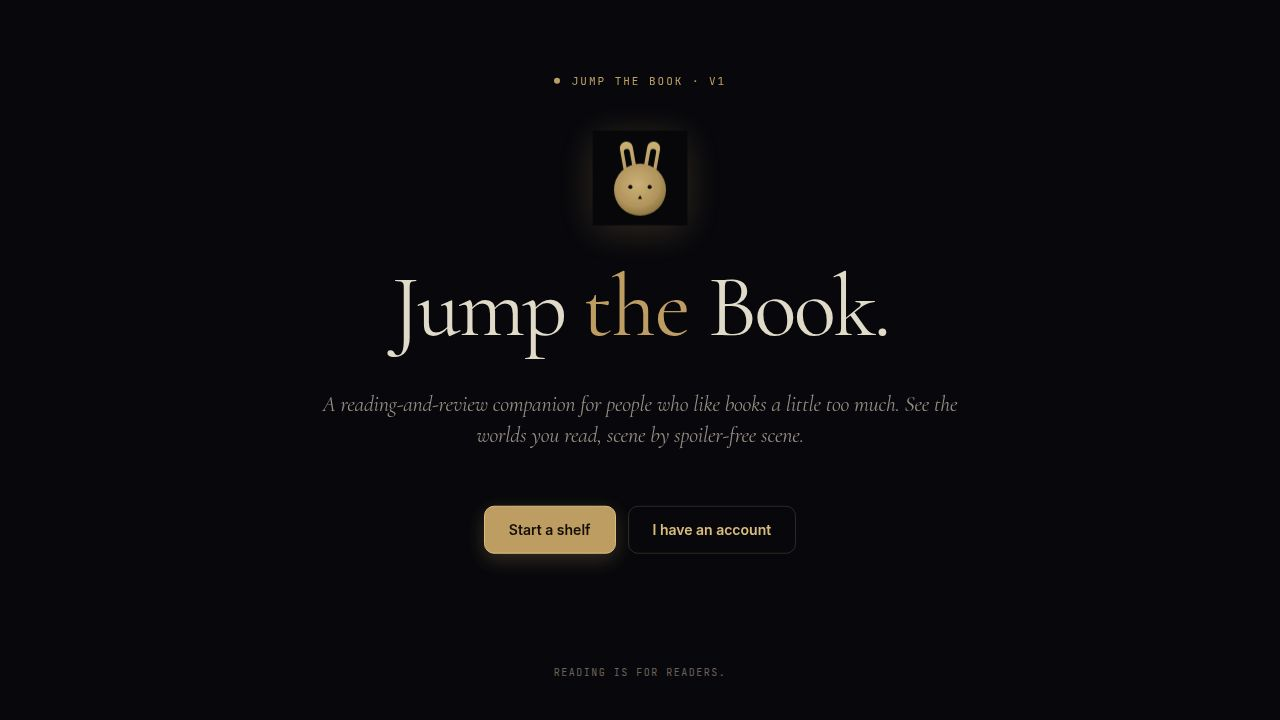
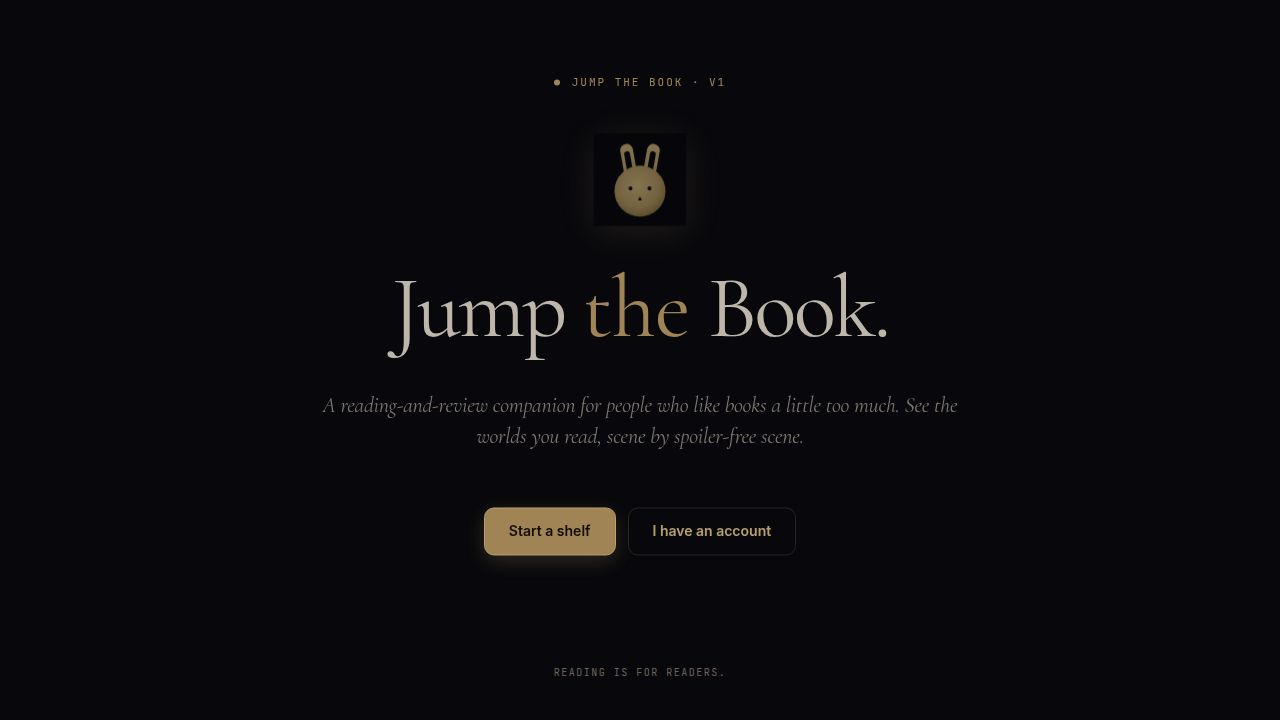
Add drag-and-drop reordering for books inside a series card
Original task (#16): Within a series group on the library page, let
readers reorder books by dragging when the API's auto-detected
seriesOrder is wrong (omnibus editions, prequels, novellas, etc.). New
order persists via the existing PATCH /me/books/:id endpoint and the
"#N" tile badges + group sort update immediately.

What changed:
- New `series-book-grid.tsx` component that renders a series group's
  tiles with HTML5 drag-and-drop. Each tile gets a small grip handle
  (the only draggable element) so taps on the cover still navigate
  normally; the surrounding wrapper handles drop targeting and shows a
  ring highlight on the drop target.
- On drop, the new order is renumbered 1..N and the cache for
  `["me","books"]` is optimistically rewritten so badges + group
  ordering update before the network round-trip. Only changed rows are
  PATCHed (parallel via Promise.all). On any failure we toast and
  re-fetch to revert to the server's truth.
- Wired into `pages/library.tsx`, replacing the inline tile grid inside
  each series group. `getSceneCount`, `bibleBookIds`, `isSignedIn` and
  the existing aria headingId/panelId are passed through unchanged.
- Reordering is gated on `isSignedIn && books.length >= 2` and every
  tile having a `remoteId` (signed-out users have no PATCH endpoint to
  hit).

Notes / deviations:
- HTML5 DnD does not work on touch devices. A follow-up task (#21) was
  filed to wire up @user for mobile/tablet support.
[…]

diff --git a/artifacts/jump-the-book-web/src/components/series-book-grid.tsx b/artifacts/jump-the-book-web/src/components/series-book-grid.tsx
@@ -1,0 +1,191 @@
+import { useState } from "react";
+import { useQueryClient } from "@tanstack/react-query";
+import { GripVertical } from "lucide-react";
+import { cn } from "@/lib/utils";
+import LibraryBookTile, {
+  type LibraryBookTileBook,
+} from "@/components/library-book-tile";
+import { apiFetch } from "@/lib/queryClient";
+import type { RemoteBook } from "@/hooks/useApiLibrary";
+import { useToast } from "@/hooks/use-toast";
+
+export interface SeriesBookEntry extends LibraryBookTileBook {
+  remoteId?: string;
+}
+
+interface Props {
+  books: SeriesBookEntry[];
+  bibleBookIds: Set<string>;
+  isSignedIn: boolean;
+  panelId: string;
+  headingId: string;
+}
+
+// Renders the books inside a single series card with HTML5 drag-and-drop
+// reordering. Each tile gets a small grip handle (the only draggable element)
+// so taps and clicks on the cover still navigate normally; the surrounding
+// wrapper handles drop targeting and shows an insertion-line cue.
+//
+// On drop we optimistically rewrite the seriesOrder field on the cached
+// `["me","books"]` rows so the "#N" badges and group sort update on the next
+// render, then PATCH the changed rows in parallel. If any patch fails we toast
+// and re-fetch to revert to the server's truth.
+export default function SeriesBookGrid({
+  books,
+  bibleBookIds,
+  isSignedIn,
+  panelId,
+  headingId,
+}: Props) {
+  const qc = useQueryClient();
+  const { toast } = useToast();
+  const [draggingId, setDraggingId] = useState<string | null>(null);
+  const [dragOverId, setDragOverId] = useState<string | null>(null);
+  const [isSaving, setIsSaving] = useState(false);
+
+  // Reordering only makes sense for signed-in users (we need a remoteId to
+  // PATCH) and when there are at least two books in the group. Demo/local
+  // standalone tiles are never rendered through this component.
+  const reorderable =
+    isSignedIn && books.length >= 2 && books.every((b) => !!b.remoteId);
+
+  const handleDragStart = (e: React.DragEvent, id: string) => {
+    if (!reorderable) return;
+    e.dataTransfer.effectAllowed = "move";
+    e.dataTransfer.setData("text/plain", id);
+    setDraggingId(id);
+  };
+
+  const handleDragEnd = () => {
+    setDraggingId(null);
+    setDragOverId(null);
+  };
+
+  const handleDragOver = (e: React.DragEvent, id: string) => {
+    if (!reorderable || !draggingId) return;
+    e.preventDefault();
+    e.dataTransfer.dropEffect = "move";
+    if (dragOverId !== id) setDragOverId(id);
+  };
+
+  const handleDragLeave = (id: string) => {
+    setDragOverId((prev) => (prev === id ? null : prev));
+  };
+
+  const handleDrop = async (e: React.DragEvent, targetId: string) => {
+    if (!reorderable) return;
+    e.preventDefault();
+    const sourceId = draggingId ?? e.dataTransfer.getData("text/plain");
+    setDraggingId(null);
+    setDragOverId(null);
+    if (!sourceId || sourceId === targetId) return;
+
+    const fromIdx = books.findIndex((b) => b.id === sourceId);
+    const toIdx = books.findIndex((b) => b.id === targetId);
+    if (fromIdx === -1 || toIdx === -1) return;
+
+    const reordered = [...books];
+    const [moved] = reordered.splice(fromIdx, 1);
+    reordered.splice(toIdx, 0, moved);
+
+    // Renumber from 1 so a series always presents a clean 1..N. We only PATCH
+    // rows whose order actually changed to keep the request count minimal.
+    const updates = reordered.map((b, i) => ({
+      remoteId: b.remoteId!,
+      newOrder: i + 1,
+      oldOrder: b.seriesOrder ?? null,
+    }));
+    const changed = updates.filter((u) => u.oldOrder !== u.newOrder);
+    if (changed.length === 0) return;
+
+    const newOrderById = new Map(updates.map((u) => [u.remoteId, u.newOrder]));
+    qc.setQueryData<RemoteBook[]>(["me", "books"], (prev) => {
+      if (!prev) return prev;
+      return prev.map((b) =>
+        newOrderById.has(b.id)
+          ? { ...b, seriesOrder: newOrderById.get(b.id)! }
+          : b,
+      );
+    });
+
+    setIsSaving(true);
+    try {
+      await Promise.all(
+        changed.map((u) =>
+          apiFetch(`/me/books/${u.remoteId}`, {
+            method: "PATCH",
+            body: JSON.stringify({ seriesOrder: u.newOrder }),
+          }),
+        ),
+      );
+      // Confirm with the server's truth without disturbing the UI mid-drag.
+      qc.invalidateQueries({ queryKey: ["me", "books"] });
+    } catch {
+      toast({
+        title: "Couldn't fully save the new order",
+        description:
+          "Some changes may not have gone through. Reloading the latest from the server — try again if it still looks wrong.",
+      });
+      // Re-fetch so the UI reflects the server's truth (which may be a partial
+      // update if some PATCHes succeeded before one failed).
+      qc.invalidateQueries({ queryKey: ["me", "books"] });
+    } finally {
+      setIsSaving(false);
+    }
+  };
+
+  return (
+    <div
+      id={panelId}
+      role="region"
+      aria-labelledby={headingId}
+      className="grid grid-cols-2 sm:grid-cols-3 md:grid-cols-4 lg:grid-cols-6 gap-4 md:gap-5"
+    >
+      {books.map((book, i) => {
+        const isDragging = draggingId === book.id;
+        const isDropTarget = dragOverId === book.id && draggingId !== book.id;
+        return (
+          <div
+            key={book.id}
+            onDragOver={(e) => handleDragOver(e, book.id)}
+            onDragLeave={() => handleDragLeave(book.id)}
+            onDrop={(e) => handleDrop(e, book.id)}
+            className={cn(
+              "relative group transition-all rounded-xl",
+              isDragging && "opacity-40",
+              isDropTarget &&
+                "ring-2 ring-[var(--jtb-accent-hi)] ring-offset-2 ring-offset-card/20",
+              isSaving && "pointer-events-none",
+            )}
+          >
+            <LibraryBookTile
+              book={book}
+              index={i}
+              hasBible={bibleBookIds.has(book.id)}
+              showStatusBadge={isSignedIn}
+            />
+            {reorderable && (
+              <button
+                type="button"
+                draggable
+                onDragStart={(e) => handleDragStart(e, book.id)}
+                onDragEnd={handleDragEnd}
+                onClick={(e) => {
+                  // Prevent navigating into the book if a stray click lands on
+                  // the handle — the handle exists only for dragging.
+                  e.preventDefault();
+                  e.stopPropagation();
+                }}
+                title="Drag to reorder"
+                aria-label={`Drag to reorder ${book.title} within the series`}
+                className="absolute top-2 right-2 z-20 inline-flex items-center justify-center w-8 h-8 sm:w-7 sm:h-7 rounded-full bg-black/60 hover:bg-black/80 text-white/80 hover:text-white opacity-70 [@media(hover:hover)]:opacity-0 [@media(hover:hover)]:group-hover:opacity-100 focus-visible:opacity-100 focus-visible:ring-2 focus-visible:ring-[var(--jtb-accent-hi)]/60 focus-visible:outline-none transition-opacity cursor-grab active:cursor-grabbing"
+              >
+                <GripVertical className="w-3.5 h-3.5" />
+              </button>
+            )}
+          </div>
+        );
+      })}
+    </div>
+  );
+}

diff --git a/artifacts/jump-the-book-web/src/pages/library.tsx b/artifacts/jump-the-book-web/src/pages/library.tsx
@@ -15,6 +15,7 @@ import { Plus, Sparkles, Loader2, BookOpen, BookMarked, CheckCircle2, ChevronDow
 import { Show } from "@clerk/react";
 import ReadingStats from "@/components/reading-stats";
 import LibraryBookTile from "@/components/library-book-tile";
+import SeriesBookGrid from "@/components/series-book-grid";
 import NowReadingHero from "@/components/now-reading-hero";
 import SceneLibrary from "@/components/scene-library";
 import WelcomeHero from "@/components/welcome-hero";
@@ -537,26 +538,18 @@ export default function Library() {
                       </span>
                     </div>
                     {!isCollapsed && (
-                      <div
-                        id={panelId}
-                        role="region"
-                        aria-labelledby={headingId}
-                        className="grid grid-cols-2 sm:grid-cols-3 md:grid-cols-4 lg:grid-cols-6 gap-4 md:gap-5"
-                      >
-                        {group.books.map((book, i) => (
-                          <LibraryBookTile
-                            key={book.id}
-                            book={{
-                              ...book,
-                              sceneCount: getSceneCount(book.id),
-                              seriesOrder: book.seriesOrder,
-                            }}
-                            index={i}
-                            hasBible={bibleBookIds.has(book.id)}
-                            showStatusBadge={isSignedIn}
-                          />
-                        ))}
-                      </div>
+                      <SeriesBookGrid
+                        books={group.books.map((book) => ({
+                          ...book,
+                          sceneCount: getSceneCount(book.id),
+                          seriesOrder: book.seriesOrder,
+                          remoteId: book.remoteId,
+                        }))}
+                        bibleBookIds={bibleBookIds}
+                        isSignedIn={isSignedIn}
+                        panelId={panelId}
+                        headingId={headingId}
+                      />
                     )}
                   </div>
                 );